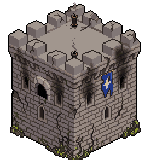
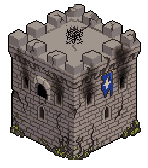
fix: corner towers get the town tower's roof: the two torches painted on the back and front merlons come off, a lit floor and fire basket go in (damaged: stubs off, dead basket); all four corner sets, intact, damaged and idle frames (tools/dev/ref_convert/corner_roof.py)

Changed region(s): [[0.4324, 0.0, 0.5676, 0.2679], [0.4595, 0.2976, 0.5405, 0.3571]]

diff --git a/tools/dev/ref_convert/corner_roof.py b/tools/dev/ref_convert/corner_roof.py
@@ -1,0 +1,194 @@
+"""Corner towers get the town tower's roof: the two torches PixelLab painted on the corner bastion's back and front
+merlons (they read as flames floating over a flat grey roof) come off, and the roof gets town_tower's lit floor and
+fire basket, warm light falling off round it. Damaged: the burnt torch stubs come off and town_tower's dead basket
+goes in. Ruins have no roof and are left alone.
+
+The roof rows are the same in every corner set (town_tower_corner, _e, _s, _e_s), so the change is worked out once on
+town_tower_corner and the changed pixels are written into each set's intact, damaged and idle frames (the idle strip only
+sways the banners, below the roof).
+
+Usage (from the project root; runs once, it refuses a set whose torches are already gone):
+  python tools/dev/ref_convert/corner_roof.py
+"""
+from collections import deque
+from pathlib import Path
+import sys
+
+import numpy as np
+from PIL import Image
+
+ROOT = Path(__file__).resolve().parents[3]
+B = ROOT / "assets" / "pixellab" / "buildings"
+SETS = ["town_tower_corner", "town_tower_corner_e", "town_tower_corner_s", "town_tower_corner_e_s"]
+CX = 74          # the corner roof's centre column (back merlon, basket, front crenel)
+FIRE = (74, 39)  # the floor's centre, where the basket stands
+DX, DY = 14, 0   # town_tower's basket (60, 40) onto FIRE
+FLOOR = np.array([166, 153, 144, 255])
+TORCH = [(15, 10, 10), (32, 22, 24), (55, 33, 17), (127, 46, 8), (48, 48, 32)]
+WARM_SOFT = [(178, 142, 115), (152, 120, 93), (191, 173, 155)]
+WARM_HOT = [(85, 54, 46), (117, 75, 46), (152, 89, 54), (182, 119, 74), (207, 134, 71), (247, 170, 89)]
+
+
+def load(p):
+    return np.array(Image.open(p).convert("RGBA")).astype(int)
+
+
+def lum(p):
+    return p[..., 0] * 0.3 + p[..., 1] * 0.59 + p[..., 2] * 0.11
+
+
+def merlon(o):
+    """A plain back-corner merlon where the torch stood: a top diamond, a darker left face and a lighter right face
+    (the back merlons' own shading), outlined like its neighbours."""
+    out, top, top2, toph = [4, 4, 5, 255], [166, 153, 144, 255], [152, 141, 138, 255], [174, 162, 155, 255]
+    lf, lf2, rf, rf2 = [108, 99, 104, 255], [116, 106, 111, 255], [132, 124, 127, 255], [152, 141, 138, 255]
+    for x in range(60, 88):
+        dxa = abs(x + 0.5 - CX)
+        if dxa > 10.5:
+            continue
+        top_up, top_lo, bot = 4 + dxa * 0.5, 13 - dxa * 0.5, 26 - dxa * 0.5
+        for y in range(0, 29):
+            if y < top_up - 1:
+                o[y, x] = [0, 0, 0, 0]
+            elif y < top_up or (dxa > 9.5 and y < bot):
+                o[y, x] = out
+            elif y <= top_lo:
+                o[y, x] = toph if (y <= top_up + 1 and x < CX) else (top if (x * 7 + y * 3) % 11 else top2)
+            elif y <= bot:
+                if x < CX:
+                    o[y, x] = lf if (x * 5 + y * 3) % 9 else lf2
+                else:
+                    o[y, x] = rf if (x * 3 + y * 5) % 9 else rf2
+
+
+def clean_intact(a, d):
+    """The intact roof without its torches or their glow: glowing pixels take the damaged still's stone (it has the
+    same roof, cold), the back merlon is redrawn, and the front torch's crenel is floor again."""
+    r, b = a[..., 0], a[..., 2]
+    box = np.zeros(a.shape[:2], bool)
+    box[0:36, 58:92] = True
+    box[36:68, 56:92] = True
+    torch = np.zeros_like(box)
+    for c in TORCH:
+        torch |= np.abs(a[..., :3] - c).sum(2) < 3
+    m = box & ((r - b > 35) | ((r > 200) & (a[..., 1] > 150)) | torch)
+    o = a.copy()
+    for y, x in zip(*np.nonzero(m)):
+        o[y, x] = d[y, x] if lum(d[y, x]) >= 70 and d[y, x, 3] > 0 else FLOOR
+    for y in range(40, 60):
+        for x in range(67, 82):
+            if lum(o[y, x]) < 115 or o[y, x, 0] - o[y, x, 2] > 25:
+                o[y, x] = FLOOR
+    merlon(o)
+    # The damaged still's floor cracks that came across with its stone.
+    for y in range(22, 52):
+        for x in range(56, 94):
+            dxa = abs(x + 0.5 - CX)
+            if dxa <= 10.5 and y <= 26 - dxa * 0.5:
+                continue
+            p = o[y, x]
+            if p[3] > 0 and (lum(p) < 115 or p[0] - p[2] > 25) and not (x < 62 or (x > 86 and y < 30)):
+                o[y, x] = FLOOR
+    return o
+
+
+def light(o, stone):
+    """Warm firelight over the roof (the floor and the merlons round it), strongest by the basket, snapped to the
+    sprite's stone palette and town_tower's warm one."""
+    zone = np.zeros(o.shape[:2], bool)
+    q = deque([(FIRE[1], FIRE[0])])
+    zone[FIRE[1], FIRE[0]] = True
+    while q:
+        y, x = q.popleft()
+        for dy, dx in ((1, 0), (-1, 0), (0, 1), (0, -1)):
+            yy, xx = y + dy, x + dx
+            if 0 <= yy < 62 and 0 <= xx < o.shape[1] and not zone[yy, xx] and o[yy, xx, 3] > 0 \
+                    and lum(o[yy, xx]) >= 60:
+                zone[yy, xx] = True
+                q.append((yy, xx))
+    w = o.copy()
+    for y, x in zip(*np.nonzero(zone)):
+        dist = ((x - FIRE[0]) ** 2 + ((y - FIRE[1]) * 2) ** 2) ** 0.5
+        s = max(0.0, min(1.0, 1.4 - dist / 44.0))
+        if s <= 0:
+            continue
+        p = o[y, x, :3].astype(float)
+        L = lum(o[y, x])
+        c = p * (1 - s) + np.array([L * 1.12 + 8, L * 0.86, L * 0.62]) * s
+        in_merlon = abs(x + 0.5 - CX) <= 10.5 and y <= 26 - abs(x + 0.5 - CX) * 0.5
+        pal = stone + WARM_SOFT + (WARM_HOT if s >= 0.6 and not in_merlon else [])
+        w[y, x, :3] = min(pal, key=lambda k: ((np.array(k) - c) ** 2).sum())
+    return w
+
+
+def paste_basket(o, t, dead):
+    """town_tower's basket (and, lit, its glowing floor diamond) onto the corner roof's centre."""
+    for y in range(16, 52):
+        for x in range(36, 86):
+            p = t[y, x]
+            if p[3] == 0:
+                continue
+            if dead:
+                hit = 52 <= x <= 68 and 26 <= y <= 43 and lum(p) < 60
+            else:
+                # Above the bowl (y < 28) only the flame: the orange beside it there is town_tower's merlon faces.
+                hit = (52 <= x <= 67 and 19 <= y <= 43 and (lum(p) < 80 or p[0] - p[2] > 100)
+                       and (y >= 28 or p[0] > 220)) \
+                    or (abs(x - 60) / 21 + abs(y - 40) / 10.5 <= 1 and p[0] - p[2] > 120)
+            if hit:
+                o[y + DY, x + DX] = p
+
+
+def clean_damaged(d):
+    """The damaged roof without its burnt torch stubs: each row's stone from either side, the front crenel floor."""
+    o = d.copy()
+    for y in range(0, 4):
+        for x in range(70, 79):
+            o[y, x] = [0, 0, 0, 0]
+    for (x0, x1, y0, y1) in [(70, 79, 4, 28)]:
+        for y in range(y0, y1):
+            for x in range(x0, x1):
+                p = o[y, x]
+                if lum(p) < 85 or p[0] - p[2] > 35:
+                    o[y, x] = o[y, x0 - 1] if x < CX else o[y, x1]
+    floor = d[45, 60].copy()
+    for y in range(48, 60):
+        for x in range(68, 81):
+            p = o[y, x]
+            if lum(p) < 85 or p[0] - p[2] > 35:
+                o[y, x] = floor
+    return o
+
+
+def main():
+    base = B / SETS[0]
+    a, d = load(base / "intact.png"), load(base / "damaged.png")
+    flame = (a[..., 0] > 240) & (a[..., 1] > 160) & (a[..., 2] < 120)
+    if flame[:66].sum() < 10:
+        sys.exit("town_tower_corner has no roof torches: already converted")
+    stone = [tuple(int(v) for v in c) for c in np.unique(a[a[..., 3] > 0][:, :3], axis=0)]
+    tw = B / "town_tower"
+    lit = light(clean_intact(a, d), stone)
+    paste_basket(lit, load(tw / "intact.png"), False)
+    cold = clean_damaged(d)
+    paste_basket(cold, load(tw / "damaged.png"), True)
+    for name, old, new in [("intact", a, lit), ("damaged", d, cold)]:
+        changed = np.any(old != new, axis=2)
+        for s in SETS:
+            im = load(B / s / f"{name}.png")
+            assert np.array_equal(im[changed], old[changed]), f"{s}/{name}: roof differs from {SETS[0]}"
+            im[changed] = new[changed]
+            Image.fromarray(im.astype(np.uint8)).save(B / s / f"{name}.png")
+            if name == "intact" and (B / s / "idle.png").exists():
+                strip = load(B / s / "idle.png")
+                w = im.shape[1]
+                for k in range(strip.shape[1] // w):
+                    f = strip[:, k * w:(k + 1) * w]
+                    assert np.array_equal(f[changed], old[changed]), f"{s}/idle frame {k}: roof differs"
+                    f[changed] = new[changed]
+                Image.fromarray(strip.astype(np.uint8)).save(B / s / "idle.png")
+        print(name, "pixels changed:", int(changed.sum()))
+
+
+if __name__ == "__main__":
+    main()
